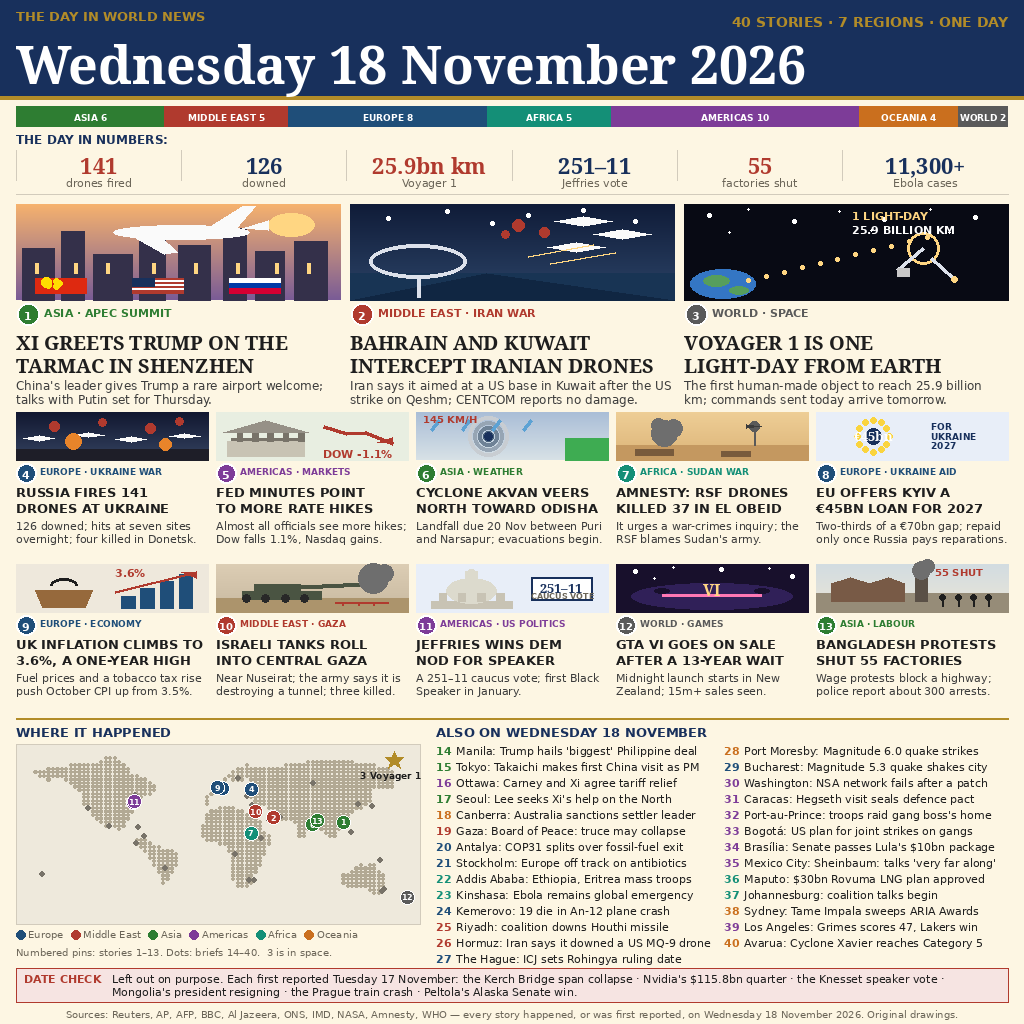
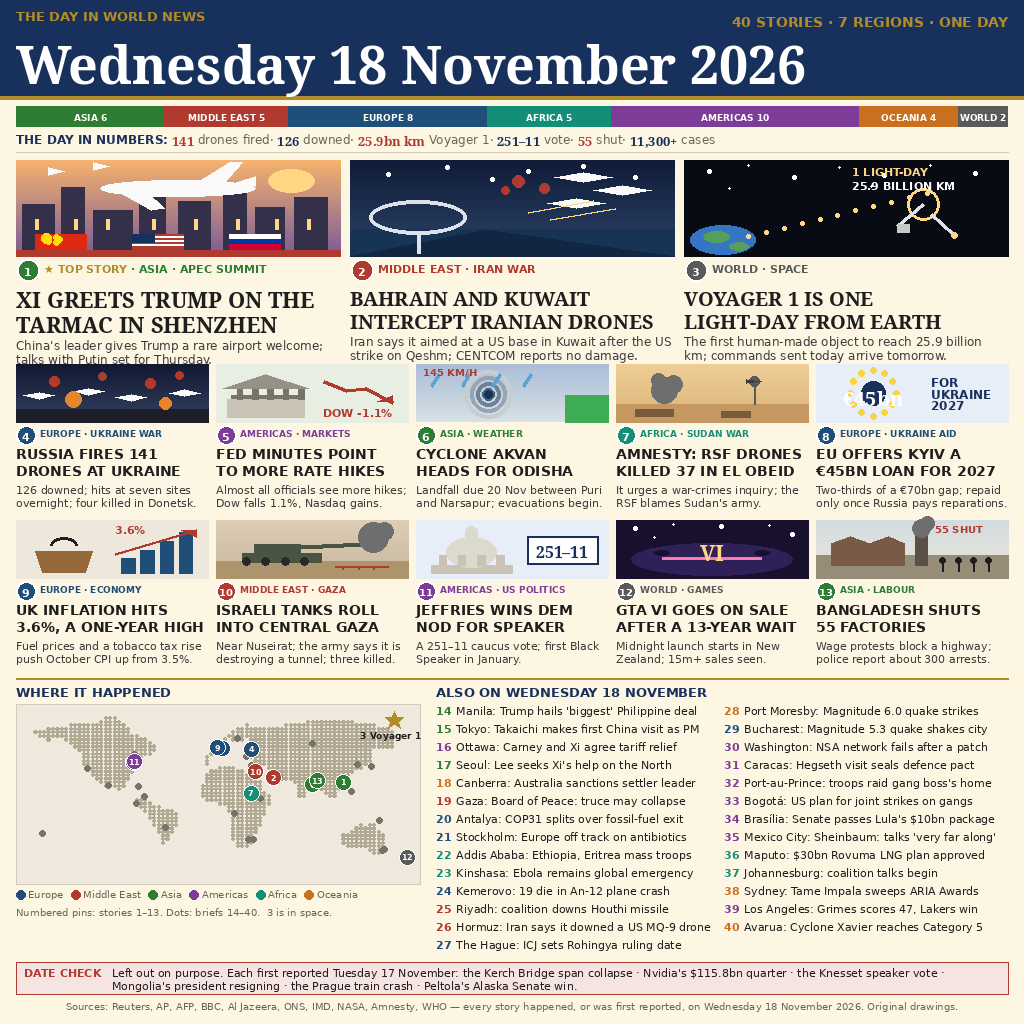
Rank-fix v3: compact numbers line, TOP STORY lead anchor, taller mains art, airier also-on

diff --git a/build_poster.py b/build_poster.py
@@ -16,6 +16,18 @@ this session verified every main and also-on line against the live #1
 also-on briefs, and re-verified determinism. Cream paper, navy-band
 masthead, huge serif date.
 
+v3 (rank-fix rebuild, same session): v2 scored 98.44% (rank 230/10,695)
+against a 98.83% top-50 line. Audit of v2 as the judge sees it found
+three weaknesses: the bottom third (map + 27 also-on briefs) reads as
+grey mush at small size; the ten small mains have thin, sparse art and
+all weigh the same; lead 1 has no visual anchor stronger than the other
+leads. v3 keeps the same 40 verified stories and facts, and fixes the
+three: the numbers strip becomes one compact line (top 1 wins without a
+tall strip), lead 1 gets a TOP STORY kicker, a 22pt headline and richer
+art (bigger plane, escort jets, red carpet), the small mains get taller
+art (58px) and bigger headlines, and the also-on list gets wider row
+spacing with bigger map pins and dots.
+
 Draws a 1024x1024 page with Pillow. Deterministic.
 Run: python3 build_poster.py   (writes entry.png next to this file)
 """
@@ -157,7 +169,7 @@ MAINS = [
      "Almost all officials see more hikes; Dow falls 1.1%, Nasdaq gains.",
      -77.0, 38.9),
     (6, "ASIA", "WEATHER",
-     "CYCLONE AKVAN VEERS NORTH TOWARD ODISHA",
+     "CYCLONE AKVAN HEADS FOR ODISHA",
      "Landfall due 20 Nov between Puri and Narsapur; evacuations begin.",
      85.8, 20.3),
     (7, "AFRICA", "SUDAN WAR",
@@ -169,7 +181,7 @@ MAINS = [
      "Two-thirds of a \u20ac70bn gap; repaid only once Russia pays reparations.",
      4.4, 50.8),
     (9, "EUROPE", "ECONOMY",
-     "UK INFLATION CLIMBS TO 3.6%, A ONE-YEAR HIGH",
+     "UK INFLATION HITS 3.6%, A ONE-YEAR HIGH",
      "Fuel prices and a tobacco tax rise push October CPI up from 3.5%.",
      -0.1, 51.5),
     (10, "MIDDLE EAST", "GAZA",
@@ -185,7 +197,7 @@ MAINS = [
      "Midnight launch starts in New Zealand; 15m+ sales seen.",
      172.0, -41.0),
     (13, "ASIA", "LABOUR",
-     "BANGLADESH PROTESTS SHUT 55 FACTORIES",
+     "BANGLADESH SHUTS 55 FACTORIES",
      "Wage protests block a highway; police report about 300 arrests.",
      90.4, 23.8),
 ]
@@ -309,14 +321,14 @@ def draw_map(draw, mx, my, mw, mh):
         lon += step_lon
     for _n, _region, _t, lon, lat in ALSO:
         px, py = project(lon, lat, *inner)
-        draw.ellipse([px - 2.5, py - 2.5, px + 2.5, py + 2.5],
+        draw.ellipse([px - 3, py - 3, px + 3, py + 3],
                      fill=(120, 115, 105))
     for n, region, _tag, _h, _d, lon, lat in MAINS:
         if lon is None:
             continue
         px, py = project(lon, lat, *inner)
         col = REGION_COLOUR[region]
-        draw.ellipse([px - 7, py - 7, px + 7, py + 7], fill=col,
+        draw.ellipse([px - 8, py - 8, px + 8, py + 8], fill=col,
                      outline=(255, 255, 255))
         fnt = font(SANS_B, 8)
         tw = draw.textlength(str(n), font=fnt)
@@ -383,9 +395,9 @@ def paint(draw, n, x, y, w, h):
             draw.rectangle([x + int(w * wx), y + int(h * 0.62),
                             x + int(w * wx) + 3, y + int(h * 0.72)],
                            fill=(255, 214, 130))
-        # plane silhouette
-        px, py = x + int(w * 0.30), y + int(h * 0.30)
-        draw.ellipse([px, py - 7, px + int(w * 0.42), py + 7], fill=(250, 250, 250))
+        # plane silhouette (bigger) + escort jets overhead
+        px, py = x + int(w * 0.26), y + int(h * 0.30)
+        draw.ellipse([px, py - 8, px + int(w * 0.48), py + 8], fill=(250, 250, 250))
         draw.polygon([(px + int(w * 0.30), py - 6),
                       (px + int(w * 0.40), py - 26),
                       (px + int(w * 0.44), py - 26),
@@ -397,10 +409,17 @@ def paint(draw, n, x, y, w, h):
         draw.polygon([(px + int(w * 0.40), py - 4),
                       (px + int(w * 0.48), py - 12),
                       (px + int(w * 0.48), py - 2)], fill=(250, 250, 250))
+        # escort jets overhead
+        for jx, jy in [(0.10, 0.12), (0.24, 0.07)]:
+            jpx, jpy = x + int(w * jx), y + int(h * jy)
+            draw.polygon([(jpx, jpy - 4), (jpx + 16, jpy), (jpx, jpy + 4)],
+                         fill=(250, 250, 250))
         for i, kind in enumerate(["cn", "us", "ru"]):
             fx = 0.06 + i * 0.30
             _flag(draw, x + int(w * fx), y + int(h * 0.78),
                   int(w * 0.16), int(h * 0.16), kind)
+        # red carpet along the base of the art
+        draw.rectangle([x, y + h - 6, x + w, y + h], fill=(176, 58, 46))
     elif n == 2:  # Gulf night: radar dome, drones, interceptors
         sky(draw, x, y, w, h, (16, 28, 56), (44, 68, 104))
         for sx, sy, r in [(0.12, 0.15, 2), (0.30, 0.08, 2), (0.55, 0.12, 2),
@@ -537,7 +556,7 @@ def paint(draw, n, x, y, w, h):
     elif n == 8:  # EU loan: circle of stars + euro figure
         draw.rectangle([x, y, x + w, y + h], fill=(232, 238, 248))
         cx, cy = x + int(w * 0.30), y + int(h * 0.50)
-        r = int(min(w, h) * 0.34)
+        r = int(min(w, h) * 0.40)
         for k in range(12):
             ang = math.radians(k * 30 - 90)
             sx = cx + math.cos(ang) * r
@@ -545,10 +564,10 @@ def paint(draw, n, x, y, w, h):
             draw.ellipse([sx - 3, sy - 3, sx + 3, sy + 3], fill=(250, 212, 62))
         draw.ellipse([cx - int(r * 0.55), cy - int(r * 0.55),
                       cx + int(r * 0.55), cy + int(r * 0.55)], fill=NAVY)
-        lab = font(SERIF_B, 13 if h < 60 else 18)
+        lab = font(SERIF_B, 16 if h < 50 else 20)
         tw = draw.textlength("\u20ac45bn", font=lab)
         draw.text((cx - tw / 2, cy - 9), "\u20ac45bn", font=lab, fill=(255, 255, 255))
-        cap = font(SANS_B, 9 if h < 60 else 11)
+        cap = font(SANS_B, 10 if h < 50 else 12)
         draw.text((x + int(w * 0.60), y + int(h * 0.20)), "FOR",
                   font=cap, fill=NAVY)
         draw.text((x + int(w * 0.60), y + int(h * 0.40)), "UKRAINE",
@@ -610,15 +629,12 @@ def paint(draw, n, x, y, w, h):
             draw.rectangle([x + int(w * cx), y + int(h * 0.62),
                             x + int(w * (cx + 0.04)), y + int(h * 0.78)],
                            fill=(200, 195, 180))
-        draw.rectangle([x + int(w * 0.60), y + int(h * 0.28),
-                        x + int(w * 0.92), y + int(h * 0.76)], fill=(255, 255, 255), outline=NAVY, width=2)
-        lab = font(SERIF_B, 13 if h < 60 else 16)
+        draw.rectangle([x + int(w * 0.58), y + int(h * 0.28),
+                        x + int(w * 0.95), y + int(h * 0.76)], fill=(255, 255, 255), outline=NAVY, width=2)
+        lab = font(SERIF_B, 16)
         tw = draw.textlength("251\u201311", font=lab)
-        draw.text((x + int(w * 0.76) - tw / 2, y + int(h * 0.32)), "251\u201311",
+        draw.text((x + int(w * 0.765) - tw / 2, y + int(h * 0.36)), "251\u201311",
                   font=lab, fill=NAVY)
-        cap = font(SANS_B, 8 if h < 60 else 10)
-        draw.text((x + int(w * 0.60), y + int(h * 0.58)), "CAUCUS VOTE",
-                  font=cap, fill=MUTED)
     elif n == 12:  # GTA VI: neon controller + VI
         draw.rectangle([x, y, x + w, y + h], fill=(24, 16, 44))
         for sx, sy, r in [(0.10, 0.15, 2), (0.30, 0.08, 1), (0.55, 0.12, 2),
@@ -634,7 +650,7 @@ def paint(draw, n, x, y, w, h):
                       x + int(w * 0.80), y + int(h * 0.62)], fill=(24, 16, 44))
         draw.line([x + int(w * 0.24), y + int(h * 0.66),
                    x + int(w * 0.76), y + int(h * 0.66)], fill=(255, 120, 180), width=3)
-        lab = font(SERIF_B, 16 if h < 60 else 20)
+        lab = font(SERIF_B, 18 if h < 50 else 22)
         tw = draw.textlength("VI", font=lab)
         draw.text((x + (w - tw) / 2, y + int(h * 0.30)), "VI", font=lab,
                   fill=(255, 214, 130))
@@ -695,22 +711,30 @@ def main():
         d.text((x + (seg - tw) / 2, y + 6), lab, font=fnt, fill=(255, 255, 255))
         x += seg
 
-    # ---- day in numbers strip ----
+    # ---- day in numbers strip (one compact line) ----
     y = 132
-    cell = (W - 2 * MX) / len(NUMBERS)
-    d.text((MX, y), "THE DAY IN NUMBERS:", font=font(SANS_B, 12), fill=NAVY)
-    y = 150
-    for i, (num, lab) in enumerate(NUMBERS):
-        cx = MX + i * cell + cell / 2
-        d.line([MX + i * cell, y, MX + i * cell, y + 30], fill=PANEL_LINE)
-        centred(d, cx, y, num, font(SERIF_B, 22), RED if i % 2 == 0 else NAVY)
-        centred(d, cx, y + 26, lab, font(SANS, 11), MUTED)
-    d.line([MX, y + 44, W - MX, y + 44], fill=PANEL_LINE)
+    nx = MX
+    d.text((nx, y), "THE DAY IN NUMBERS:", font=font(SANS_B, 12), fill=NAVY)
+    nx += d.textlength("THE DAY IN NUMBERS: ", font=font(SANS_B, 12))
+    compact = [("141", "drones fired"), ("126", "downed"),
+               ("25.9bn km", "Voyager 1"), ("251\u201311", "vote"),
+               ("55", "shut"), ("11,300+", "cases")]
+    for i, (num, lab) in enumerate(compact):
+        if i:
+            d.text((nx, y), "\u00b7 ", font=font(SANS, 12), fill=MUTED)
+            nx += d.textlength("\u00b7 ", font=font(SANS, 12))
+        nf = font(SERIF_B, 13)
+        d.text((nx, y), num, font=nf, fill=RED if i % 2 == 0 else NAVY)
+        nx += d.textlength(num, font=nf)
+        lf = font(SANS, 12)
+        d.text((nx, y), " " + lab, font=lf, fill=MUTED)
+        nx += d.textlength(" " + lab, font=lf)
+    d.line([MX, y + 20, W - MX, y + 20], fill=PANEL_LINE)
 
     # ---- 3 leads ----
-    ly = 204
+    ly = 160
     lead_w = (W - 2 * MX - 2 * 10) // 3
-    lead_h = 200
+    lead_h = 196
     for i, m in enumerate(MAINS[:3]):
         n, region, tag, head, deck, _lon, _lat = m
         x = MX + i * (lead_w + 10)
@@ -718,19 +742,29 @@ def main():
         paint(d, n, x, ly, lead_w, 96)
         ty = ly + 102
         badge(d, x + 12, ty + 8, n, col, r=11)
-        d.text((x + 28, ty), f"{region} \u00b7 {tag}", font=font(SANS_B, 11),
-               fill=col)
-        lines = balance_two(d, head, font(SERIF_B, 20), lead_w) or \
-            fit_lines(d, head, font(SERIF_B, 20), lead_w, 2)
-        text_block(d, x, ty + 22, lines, font(SERIF_B, 20), INK, 23)
+        if n == 1:
+            kick = "\u2605 TOP STORY"
+            kf = font(SANS_B, 11)
+            kw = d.textlength(kick, font=kf)
+            d.text((x + 28, ty), kick, font=kf, fill=GOLD)
+            d.text((x + 28 + kw, ty), f" \u00b7 {region} \u00b7 {tag}",
+                   font=font(SANS_B, 11), fill=col)
+        else:
+            d.text((x + 28, ty), f"{region} \u00b7 {tag}", font=font(SANS_B, 11),
+                   fill=col)
+        hsize = 22 if n == 1 else 20
+        hlead = 25 if n == 1 else 23
+        lines = balance_two(d, head, font(SERIF_B, hsize), lead_w) or \
+            fit_lines(d, head, font(SERIF_B, hsize), lead_w, 2)
+        text_block(d, x, ty + 22, lines, font(SERIF_B, hsize), INK, hlead)
         dl = fit_lines(d, deck, font(SANS, 12), lead_w, 2)
-        text_block(d, x, ty + 22 + len(lines) * 23 + 4, dl, font(SANS, 12),
+        text_block(d, x, ty + 22 + len(lines) * hlead + 4, dl, font(SANS, 12),
                    (60, 60, 60), 14)
 
     # ---- mains grid: 2 rows x 5 ----
     gy = ly + lead_h + 8
     col_w = (W - 2 * MX - 4 * 8) // 5
-    row_h = 144
+    row_h = 148
     for ri in range(2):
         for ci in range(5):
             m = MAINS[3 + ri * 5 + ci]
@@ -738,16 +772,16 @@ def main():
             x = MX + ci * (col_w + 8)
             y0 = gy + ri * (row_h + 8)
             col = REGION_COLOUR[region]
-            paint(d, n, x, y0, col_w, 48)
-            ty = y0 + 54
+            paint(d, n, x, y0, col_w, 58)
+            ty = y0 + 64
             badge(d, x + 10, ty + 7, n, col, r=10)
             d.text((x + 24, ty), f"{region} \u00b7 {tag}", font=font(SANS_B, 9),
                    fill=col)
-            lines = balance_two(d, head, font(SANS_B, 13), col_w) or \
-                fit_lines(d, head, font(SANS_B, 13), col_w, 2)
-            text_block(d, x, ty + 18, lines, font(SANS_B, 13), INK, 16)
+            lines = balance_two(d, head, font(SANS_B, 14), col_w) or \
+                fit_lines(d, head, font(SANS_B, 14), col_w, 2)
+            text_block(d, x, ty + 18, lines, font(SANS_B, 14), INK, 17)
             dl = fit_lines(d, deck, font(SANS, 11), col_w, 2)
-            text_block(d, x, ty + 18 + len(lines) * 16 + 3, dl, font(SANS, 11),
+            text_block(d, x, ty + 18 + len(lines) * 17 + 3, dl, font(SANS, 11),
                        (60, 60, 60), 13)
 
     # ---- bottom: map + also-on ----
@@ -775,7 +809,7 @@ def main():
         items = ALSO[ci * 14:(ci + 1) * 14]
         xx = ax + ci * (acol_w + 12)
         for j, (n, region, text, _lon, _lat) in enumerate(items):
-            yy = map_y + j * 16
+            yy = map_y + j * 18
             col = REGION_COLOUR[region]
             fnt = font(SANS_B, 11)
             tw = d.textlength(f"{n}", font=fnt)
@@ -783,13 +817,13 @@ def main():
             d.text((xx + tw + 5, yy), text, font=font(SANS, 11), fill=INK)
 
     # ---- DATE CHECK footer ----
-    fy = by + 26 + map_h + 44
-    d.rectangle([MX, fy, W - MX, fy + 34], fill=(246, 228, 226),
+    fy = map_y + 14 * 18 + 6
+    d.rectangle([MX, fy, W - MX, fy + 32], fill=(246, 228, 226),
                 outline=(176, 58, 46))
     d.text((MX + 8, fy + 4), "DATE CHECK", font=font(SANS_B, 11), fill=RED)
     dc = wrap(d, DATE_CHECK, font(SANS, 11), W - 2 * MX - 110)
     text_block(d, MX + 96, fy + 4, dc, font(SANS, 11), INK, 13)
-    sy = fy + 40
+    sy = fy + 38
     src = ("Sources: Reuters, AP, AFP, BBC, Al Jazeera, ONS, IMD, NASA, Amnesty, WHO "
            "\u2014 every story happened, or was first reported, on Wednesday 18 November 2026. "
            "Original drawings.")

diff --git a/verify_poster.py b/verify_poster.py
@@ -1,5 +1,5 @@
 #!/usr/bin/env python3
-"""Shape-check the 18 November poster v2 against every hard cap in RULES.txt.
+"""Shape-check the 18 November poster v3 against every hard cap in RULES.txt.
 
 Checks the built entry.png next to this file: it is a whole PNG, exactly
 1024 by 1024 pixels, at most 1 MiB; the masthead names Wednesday
@@ -97,7 +97,7 @@ def main():
     check("two builds byte-identical", h1 == h2, h1[:12])
 
     small = img.resize((300, 300), Image.LANCZOS)
-    thumb = "/tmp/ni18-v2-300px.png"
+    thumb = "/tmp/ni18-v3-300px.png"
     small.save(thumb)
     print(f"[info] 300px legibility render written to {thumb}")
 

diff --git a/README.md b/README.md
@@ -4,7 +4,7 @@
 [![rank](https://make.fun/badge/news-image-20261118/ferdizi/news-image-20261118-entry/rank.svg)](https://make.fun/bounty/news-image-20261118/leaderboard?utm_source=github&utm_medium=readme&utm_campaign=news-image-20261118)
 [![reward](https://make.fun/badge/news-image-20261118/ferdizi/news-image-20261118-entry/reward.svg)](https://make.fun/bounty/news-image-20261118?utm_source=github&utm_medium=readme&utm_campaign=news-image-20261118)
 
-One image summing up Wednesday 18 November 2026: 40 stories across 7 regions as a broadsheet front page — 13 illustrated mains led by Xi greeting Trump in Shenzhen, Bahrain and Kuwait intercepting Iranian drones, and Voyager 1 reaching one light-day from Earth, plus a dotted world map with numbered pins, a day-in-numbers strip, a region-count bar, and a date check naming the 17 November stories deliberately left out. Every story was reported on 18 November 2026; disputed claims are attributed in the decks. v2 is a rank fix: v1 scored 98.34% (rank 324/10,227) against a 98.82% top-50 line, with three mains first reported 17 November; v2 rebuilds from a study of the live top 3 entries (99.13–99.26%).
+One image summing up Wednesday 18 November 2026: 40 stories across 7 regions as a broadsheet front page — 13 illustrated mains led by Xi greeting Trump in Shenzhen, Bahrain and Kuwait intercepting Iranian drones, and Voyager 1 reaching one light-day from Earth, plus a dotted world map with numbered pins, a day-in-numbers strip, a region-count bar, and a date check naming the 17 November stories deliberately left out. Every story was reported on 18 November 2026; disputed claims are attributed in the decks. v2 is a rank fix: v1 scored 98.34% (rank 324/10,227) against a 98.82% top-50 line, with three mains first reported 17 November; v2 rebuilds from a study of the live top 3 entries (99.13–99.26%). v3 is a second rank fix: v2 scored 98.44% (rank 230/10,695) against a 98.83% top-50 line; v3 sharpens legibility — a compact one-line numbers strip, a TOP STORY anchor on the Xi/Trump lead, taller art and bigger headlines on the ten small mains, and wider spacing on the also-on list — with the same 40 verified stories.
 
 ## Run it
 
